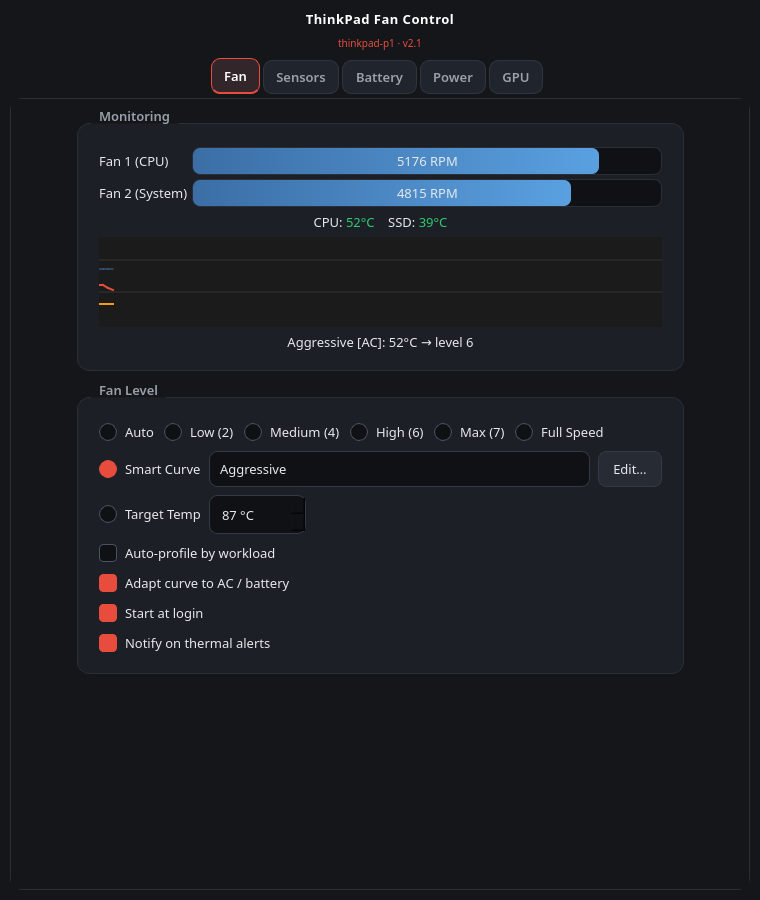
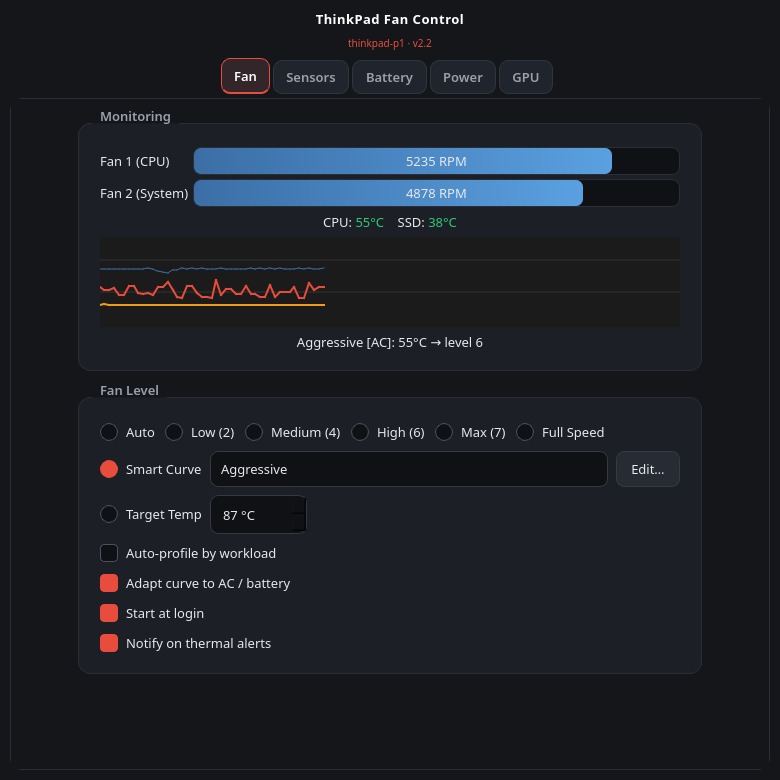
docs: v2.2, real kernel/distro matrix, changelog, uninstall, shortcuts
- VERSION 2.2. Every prior commit reported 2.1 in-app, including the release
  that added the GPU tab, so the version said nothing about what you were
  running. CHANGELOG.md reconstructs the history from commit dates and says
  so rather than inventing tags that never existed.
- Compatibility table now reports what was actually tested: P1 Gen 3 on Linux
  6.12 (Debian 13) and P1 Gen 4 on Linux 7.1 zen (Arch). It previously said
  "Linux 6.x" for both, which had drifted out of date.
- systemd unit pointed at ~/fan-control.py, which is not where the README tells
  you to clone the repo. It now matches (~/thinkpad-fan-control/) and says to
  edit the path if you put it elsewhere.
- Added uninstall instructions -- setup-fan-control.sh drops a sudoers file and
  a modprobe.d entry, and nothing documented how to take them back out.
- Documented the keyboard shortcuts, which existed but were undiscoverable.
- Regenerated every screenshot at v2.2. The capture harness now lets the app
  collect ~45s of real 1Hz samples first, so the sparklines show an actual
  trace instead of two points.

diff --git a/fan-control.py b/fan-control.py
@@ -67,7 +67,7 @@ def _find_i915_dir():
 
 GPU_PATH = _find_i915_dir()
 
-VERSION = "2.1"
+VERSION = "2.2"
 APP_PATH = os.path.abspath(__file__)
 AUTOSTART_PATH = os.path.join(os.path.expanduser("~"), ".config", "autostart",
                               "fan-control.desktop")

diff --git a/CHANGELOG.md b/CHANGELOG.md
@@ -1,0 +1,55 @@
+# Changelog
+
+Dates are commit dates. Releases before 2.2 all reported version `2.1` in-app; the entries
+below are reconstructed from the commit history rather than from tags.
+
+## 2.2 — 2026-07-31
+
+### Added
+- **GPU tab** — Intel iGPU frequency caps: min/max clock spinners, Quiet / Balanced /
+  Performance / Max presets, and "Restore hardware default". Optional auto-cap that follows
+  the AC/battery power preset.
+  - Every cap opens a 15-second keep-or-revert dialog and restores the previous
+    min/max/boost on timeout, Esc, or close.
+  - Busy% is derived from RC6 idle residency, so it works without root — `intel_gpu_top`
+    needs `CAP_PERFMON`, which most systems deny.
+  - Values are clamped to the hardware-reported `RPn..RP0` range, and the i915 card is
+    resolved by driver symlink rather than a hardcoded `cardN` (the number isn't stable
+    across boots).
+  - Nothing persists: a reboot always restores stock GPU clocks.
+  - Degrades to an explanatory note when there's no i915 device.
+- `fanctl` gains `gpu-min`, `gpu-max`, `gpu-boost`, and `gpu-reset`.
+- GPU busy% joins the 1 Hz history and the CSV export; the benchmark table gains GPU busy%
+  and GPU clock sampled in the same steady-state window.
+- Keyboard shortcuts and uninstall instructions documented in the README.
+
+### Fixed
+- **Only one instance can run at a time** (`QLockFile`, 30 s stale reclaim). An XDG autostart
+  entry plus a desktop session restore could previously race into two live instances both
+  driving the fan.
+- The bundled systemd unit pointed at `~/fan-control.py`; it now matches the README's clone
+  path (`~/thinkpad-fan-control/`).
+
+## 2.1 — 2026-07-26
+
+### Added
+- Responsive layout: wrapping button rows, capped field widths, a shared label column, and a
+  900 px centred content column. No horizontal overflow from 360×380 up to 1500×1000.
+- Pill-style tabs with a filled active state; compact mode under 420×560 drops the title block
+  and shrinks the graph.
+- Window position and last active tab persist across restarts; off-screen coordinates from an
+  unplugged dock are ignored.
+- Keyboard shortcuts: `Ctrl+1..n`, `Ctrl+Tab`, `Ctrl+R` / `F5`, `Esc` / `Ctrl+W`, `Ctrl+Q`.
+
+### Fixed
+- Curve mode re-wrote the fan level every 60 s even when the EC hadn't drifted. It now compares
+  the current level first and only writes on an actual change.
+- Readout labels word-wrap. A non-wrapping `QLabel` reports its full text width as its *minimum*
+  width, so one long status line used to drag every tab past the viewport.
+
+## 2.1 — 2026-07-21
+
+Initial public release: fan control (manual / curve / target), sensors, battery charge
+thresholds, Intel RAPL power limits with an in-app benchmark, live graph with CSV export,
+auto-profile by workload, critical-temp failsafe, and optional Prometheus/ntfy telemetry
+(off by default).

diff --git a/README.md b/README.md
@@ -46,12 +46,12 @@ thermostat — with a live temp/RPM graph and AC/battery-aware profiles.
 
 ## Compatibility
 
-Tested with **app version 2.1** on:
+Tested with **app version 2.2** on:
 
-| ThinkPad model | CPU generation | Kernel |
-|---|---|---|
-| P1 Gen 3 | Intel 10th-gen (Comet Lake-H) | Linux 6.x |
-| P1 Gen 4 | Intel 11th-gen (Tiger Lake-H) | Linux 6.x |
+| ThinkPad model | CPU generation | Kernel | Distro |
+|---|---|---|---|
+| P1 Gen 3 | Intel 10th-gen (Comet Lake-H) | Linux 6.12 | Debian 13 |
+| P1 Gen 4 | Intel 11th-gen (Tiger Lake-H) | Linux 7.1 (zen) | Arch |
 
 Everything it drives — `thinkpad_acpi` fan control, Intel RAPL power limits,
 `platform_profile`, `BAT0` charge thresholds, and i915 `gt_*_freq_mhz` — is common across recent ThinkPads,
@@ -78,6 +78,27 @@ python3 fan-control.py
 ```
 cp systemd/fan-control.service ~/.config/systemd/user/ && systemctl --user enable --now fan-control.service
 ```
+
+### Uninstall
+
+```
+sudo rm -f /usr/local/bin/fanctl /etc/sudoers.d/fan-control /etc/modprobe.d/thinkpad_acpi.conf && systemctl --user disable --now fan-control.service
+```
+
+That removes the helper, the passwordless-sudo grant, and the `fan_control=1` persistence.
+Fan control returns to firmware on the next reboot (or `sudo modprobe -r thinkpad_acpi &&
+sudo modprobe thinkpad_acpi`). Settings in `~/.config/fan-control/` are left alone — delete
+that directory too if you want a clean slate.
+
+## Keyboard shortcuts
+
+| Key | Action |
+|---|---|
+| `Ctrl+1` … `Ctrl+5` | jump to tab |
+| `Ctrl+Tab` / `Ctrl+Shift+Tab` | cycle tabs |
+| `Ctrl+R` / `F5` | force a refresh |
+| `Esc` / `Ctrl+W` | hide to tray (or close if there's no tray) |
+| `Ctrl+Q` | quit |
 
 ## How it works
 
@@ -111,6 +132,10 @@ critical-temperature failsafe forces full speed regardless of the active curve. 
 frequency caps are staged behind a 15-second keep-or-revert dialog and are clamped to the
 hardware range; nothing GPU-side persists, so a reboot always restores stock clocks. Still,
 you are overriding firmware defaults — understand your hardware's limits.
+
+## Changelog
+
+See [CHANGELOG.md](CHANGELOG.md).
 
 ## License
 
